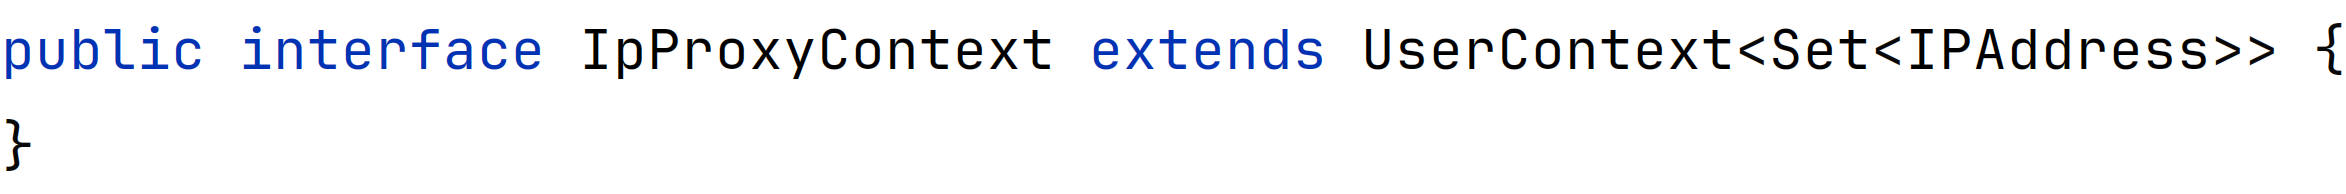
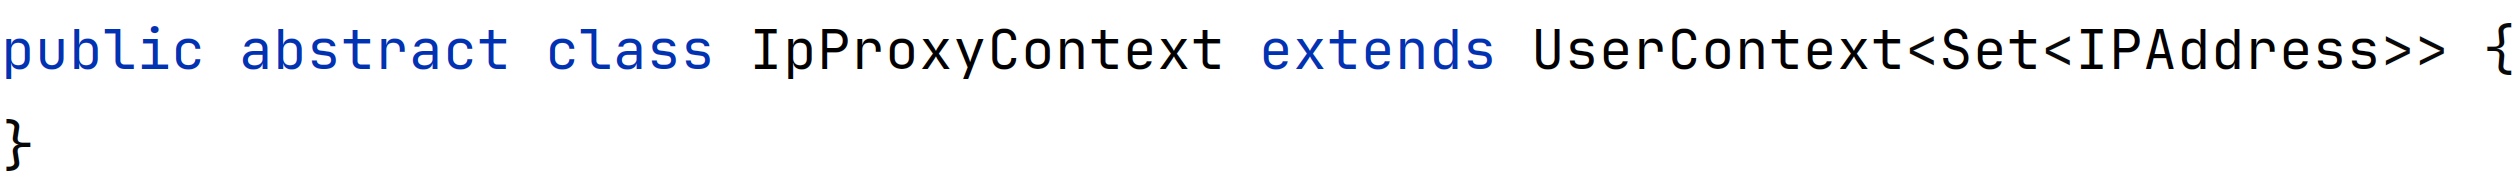
Change UserContext to abstract class

Changed region(s): [[0.0, 0.1237, 0.9957, 0.4021], [0.9957, 0.3402, 1.0, 0.4021], [0.9957, 0.1237, 1.0, 0.1546]]

diff --git a/sections/5-design.tex b/sections/5-design.tex
@@ -17,19 +17,19 @@ The main advantage of using user contexts is to get the required information, re
 It means that it does not really matter which approach was used for obtaining the information but that the information is available.
 It implies that administrators need to be aware of present user context providers/implementations in order to prevent any inaccuracies.
 
-As shown in Figure \ref{fig:user-context-diagram}, user context is represented as interface \textit{UserContext}, where the generic is used.
-This means that every implementation of the \textit{UserContext} interface can retrieve different types of data.
+As shown in Figure \ref{fig:user-context-diagram}, user context is represented as abstract class \textit{UserContext}, where the generic is used.
+This means that every implementation of the \textit{UserContext} abstract class can retrieve different types of data.
 
 \begin{figure}[htbp]
   \centering
-  \includegraphics[width=0.4\textwidth]{img/sections/5-design/userContext.png}
+  \includegraphics[width=0.4\textwidth]{img/sections/5-design/userContextAbstract.png}
   \caption{User Context Diagram.}
   \label{fig:user-context-diagram}
 \end{figure}
 
 \newpage
 
-Methods of the \textit{UserContext} interface:
+Methods of the \textit{UserContext} abstract class:
 \begin{itemize}
     \item \textit{requiresUser()} -- a Boolean flag to determine whether the data can be obtained without the information about the authentication user.
     \item \textit{initData()} -- a method that initiates retrieving the data.
@@ -42,10 +42,10 @@ An excellent example of leveraging user context is the implementation of an IP a
 It provides the ability to obtain the IP address of the device in multiple ways.
 The IP address can be obtained either from the user agent attributes or from the HTTP headers \textit{Forwarded} and \textit{X-Forwarded-For} when a proxy is used.
 
-As seen in Figure \ref{fig:user-context-ip-address-context}, the \textit{IpAddressContext} interface extends the \textit{UserContext} interface and specifies that the retrieved data will be of type \textit{IPAddress}, which is a structure describing the IP address attributes.
+As seen in Figure \ref{fig:user-context-ip-address-context}, the \textit{IpAddressContext} abstract class extends the \textit{UserContext} abstract class and specifies that the retrieved data will be of type \textit{IPAddress}, which is a structure describing the IP address attributes.
 
-The \textit{DeviceIpAddressContext} class is an implementation of the \textit{IpAddressContext} interface and obtains the IP address from the user agent attributes.
-The \textit{HeaderIpAddressContext} class is also an implementation of the \textit{IpAddressContext} interface and obtains the IP address from the HTTP headers when a proxy is used.
+The \textit{DeviceIpAddressContext} class is an implementation of the \textit{IpAddressContext} abstract class and obtains the IP address from the user agent attributes.
+The \textit{HeaderIpAddressContext} class is also an implementation of the \textit{IpAddressContext} abstract class and obtains the IP address from the HTTP headers when a proxy is used.
 
 \begin{figure}[htbp]
   \centering

diff --git a/sections/6-implementation.tex b/sections/6-implementation.tex
@@ -148,7 +148,7 @@ The abstract model representation is converted to the \textit{Data Transfer Obje
 
 \newpage
 \section{User Context}
-The first step for implementing the \textit{UserContext<T>} interface is to bind the generic type to the required one, either through extending the interface or directly in the implementation of the context.
+The first step for implementing the \textit{UserContext<T>} abstract class is to bind the generic type to the required one, either through extending the abstract class or via a direct reference from the implementation class. 
 
 For demonstration purposes, consider a specific user context \textit{IpProxyContext}, which handles all IP addresses present in the HTTP \textit{Forwarded}, and \textit{X-Forwarded-For} headers used when a proxy is part of the deployment.
 
@@ -161,10 +161,12 @@ The specific \textit{IpProxyContext} was created, shown in Figure \ref{fig:impl-
   \label{fig:impl-user-ctx-ifc}
 \end{figure}
 
-The implementation of the \textit{IpProxyContext}, shown in Figure \ref{fig:impl-user-ctx-ip}, consists of several attributes to fulfill the requirements of the interface by returning particular data in methods.
+The implementation of the \textit{IpProxyContext}, shown in Figure \ref{fig:impl-user-ctx-ip}, consists of the implementation of the \textit{initData()} method to fulfill the requirements of the abstract class.
 
-In the constructor, the \textit{initData()} method is called, which initializes data when the context is needed.
 With the help of the \textit{KeycloakSession}, the data for a particular context is processed only once per request, so when different risk evaluators need the context, it is not evaluated multiple times.
+
+However, the initialization of the data does not have to be successful.
+In that case, the \textit{isInitialized} Boolean flag is \textit{false}, and the user contexts processing unit may repeat the initialization based on the information.
 
 During the initialization of the data, the HTTP headers of the current request are parsed.
 IP addresses included in the headers \textit{Forwarded} and \textit{X-Forwarded-For} are concatenated together.
